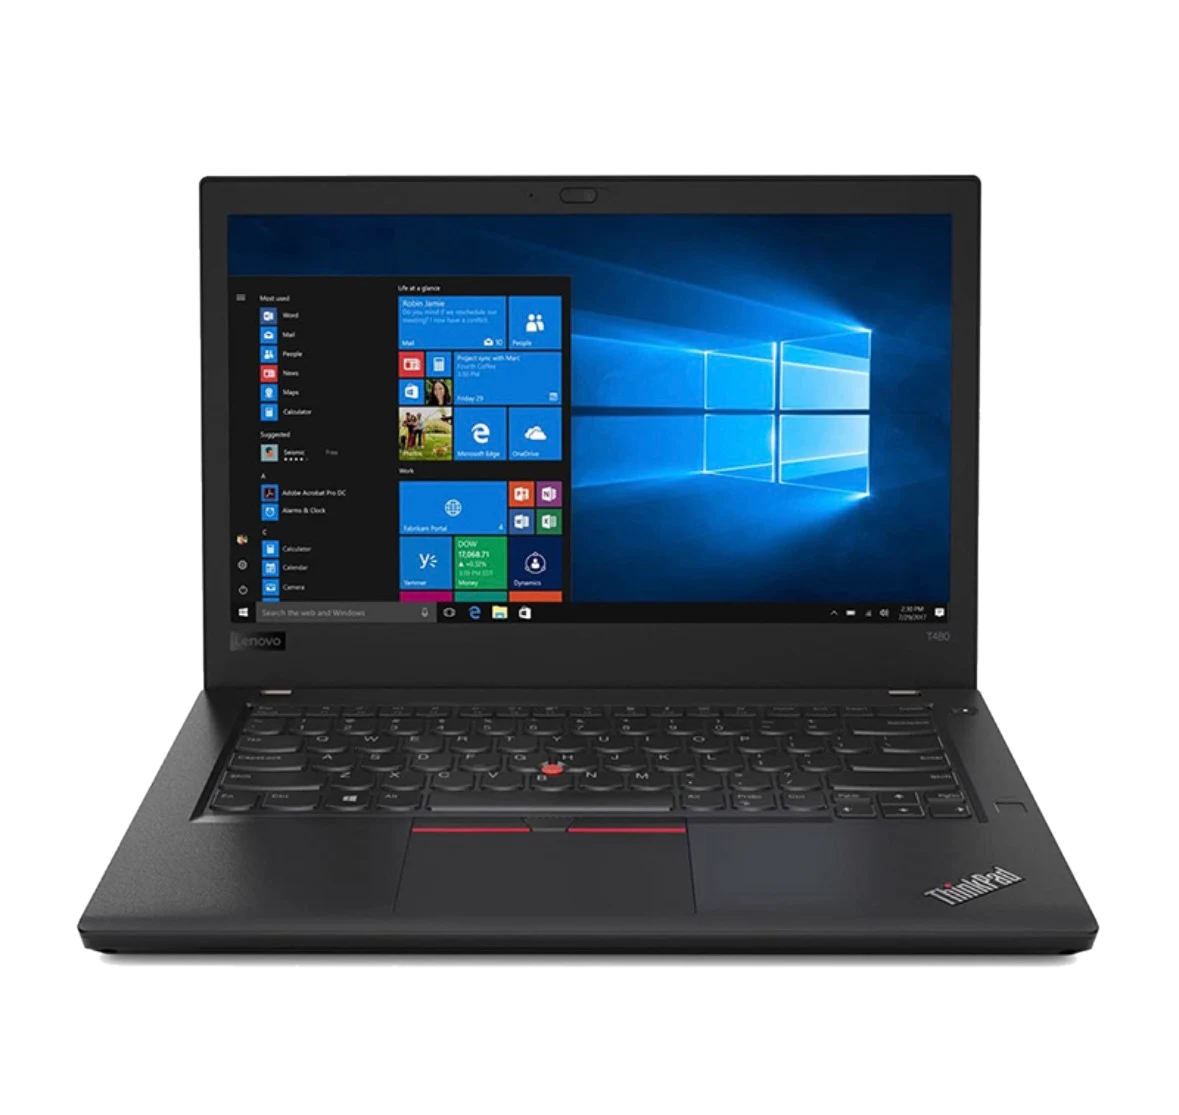
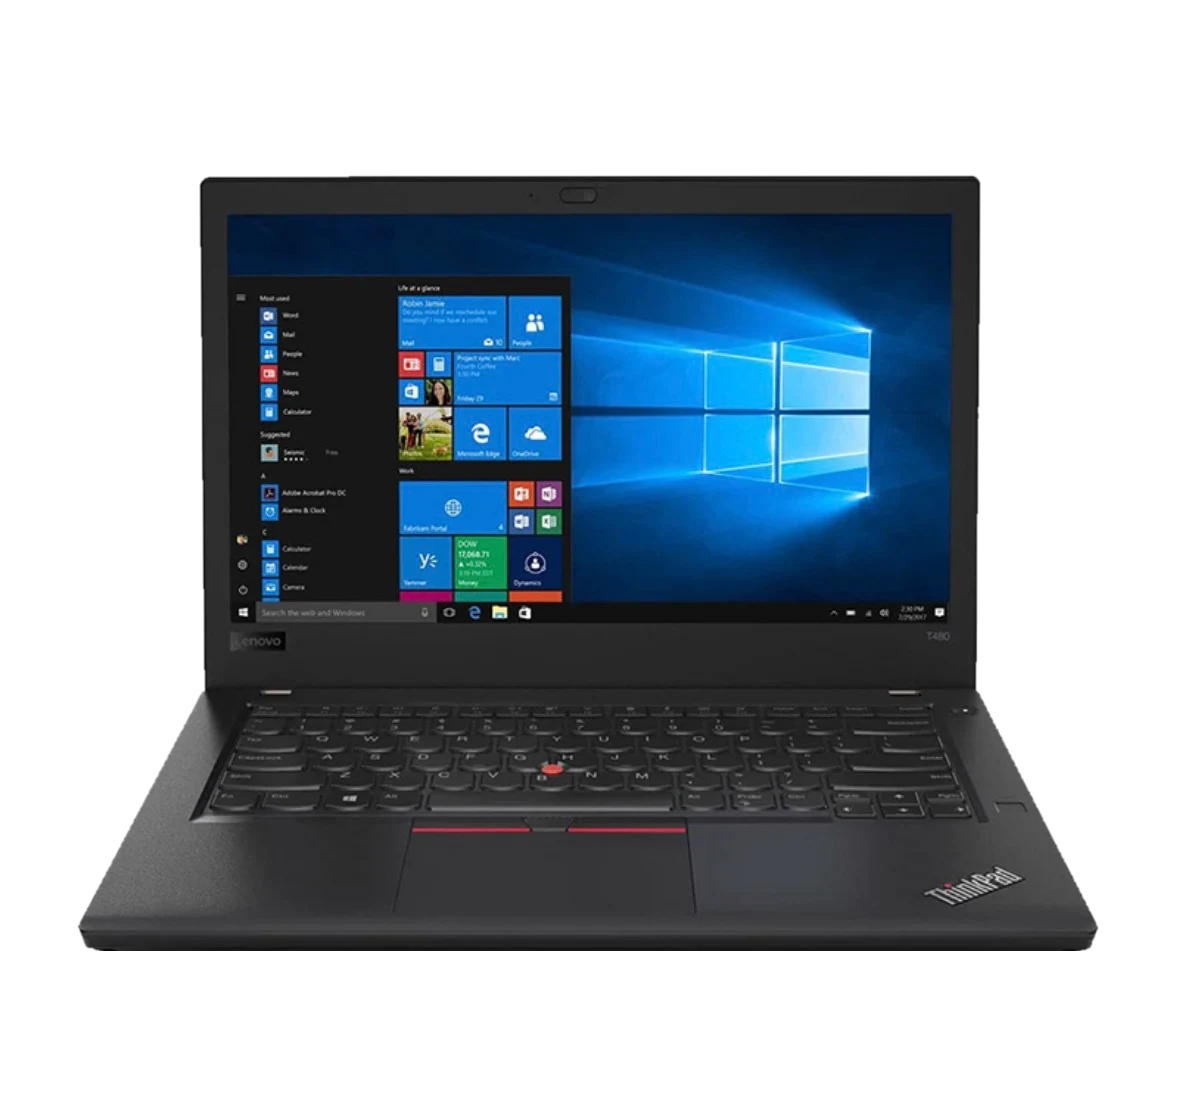
Put the real machine in the hero, and clean the cutout it was hiding
The hero image was an AI render whose lid read "ThinᛕPad" in a broken
glyph, with floating rock debris beside it — a games wallpaper standing in
for the product on the page every visitor sees first. It was also 542x445,
smaller than the box it is drawn into, so it arrived soft on any retina
screen.

The actual T480 product photograph was already in the repo at 1179x1115.
It is sharp, the Lenovo and ThinkPad marks are the real ones, and it is the
machine the alt text has always claimed it was. The lighting that made the
render sit in the hero is done in CSS instead: the existing radial glow
sits behind it, and two drop-shadows ground it and give the black chassis a
faint blue rim so its silhouette separates from the navy.

Swapping it in exposed why it had not been used there: the cutout was made
against a white studio backdrop and kept it where it met the machine — a
solid white band welded under the base, and a 1-2px white halo all the way
round. Invisible on white, obvious on navy. Measured on the composite:

  before   rows 953-959  up to 970 px/row above 120 luminance
  after    rows 951+     0 px above 120, maxLum 20 — the background itself

Fixed by clearing the alpha below the base and eroding the mask by 2px.
Both the hero and ExampleMachine, which shares the file, get the clean one.

Two things worth recording. sharp caches by path, so the first two passes
verified stale bytes and reported a fix that had not been written; the
[…]

diff --git a/components/Hero.tsx b/components/Hero.tsx
@@ -190,14 +190,38 @@ export default function Hero({ lang }: { lang: Lang }) {
                     "radial-gradient(50% 46% at 50% 46%, rgba(60,110,255,0.32) 0%, rgba(40,74,190,0.12) 42%, transparent 68%)",
                 }}
               />
+              {/*
+                The real machine, not a rendered impression of one.
+
+                This was an AI render whose lid read "ThinᛕPad" in a broken
+                glyph, with floating rock debris beside it — a games wallpaper
+                standing in for the product on the page every visitor sees
+                first. It was also 542x445, which is smaller than the box it
+                is drawn into, so it arrived soft on any retina screen.
+
+                This is the actual T480 product photograph already in the
+                repo at 1179x1115, cut out against transparency. It is sharp,
+                the Lenovo and ThinkPad marks are the real ones, and it is
+                the machine the alt text has always claimed it was.
+
+                The lighting that made the render feel at home in the hero is
+                done here instead: the radial glow above sits behind it, and
+                the two drop-shadows ground it and give the black chassis a
+                faint blue rim so its silhouette separates from the navy
+                rather than sinking into it.
+              */}
               <Image
-                src="/hero/hero-laptop.webp"
+                src="/thinkpad-t480-6-cutout.webp"
                 alt={c.machineAlt}
-                width={542}
-                height={445}
+                width={1179}
+                height={1115}
                 priority
                 sizes="(min-width: 1024px) 38vw, 96vw"
                 className="relative mx-auto w-full max-w-xl lg:max-w-none"
+                style={{
+                  filter:
+                    "drop-shadow(0 18px 40px rgba(0,0,0,0.55)) drop-shadow(0 0 26px rgba(60,110,255,0.26))",
+                }}
               />
             </div>
 
